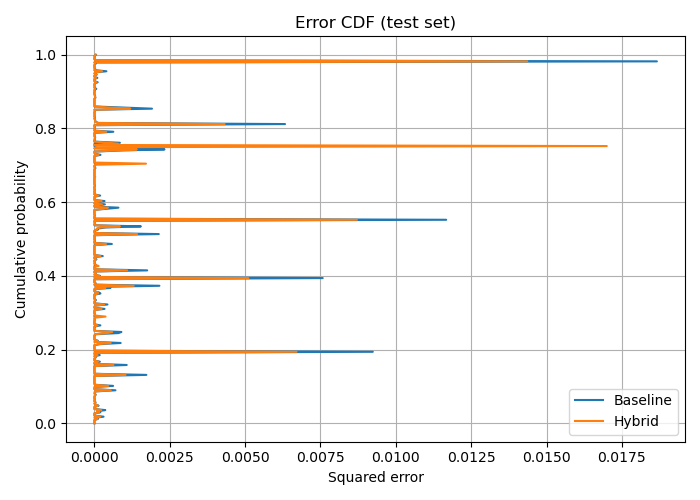
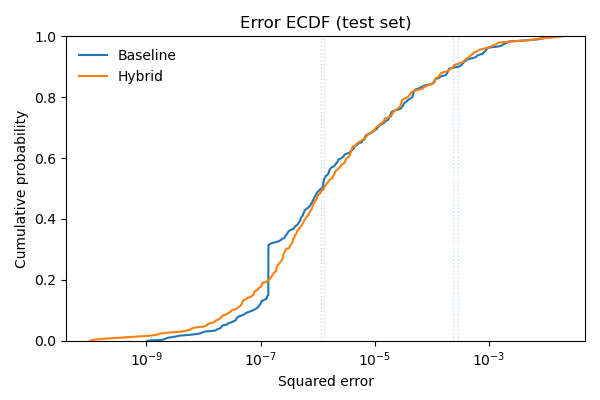
Improve milestone results figures

diff --git a/hybrid_ml_contact_dynamics/visualisation/freefall/freefall_plot.py b/hybrid_ml_contact_dynamics/visualisation/freefall/freefall_plot.py
@@ -5,10 +5,12 @@ import numpy as np
 from pathlib import Path
 from hybrid_ml_contact_dynamics.experiments.freefall.trajectory_buffer import Trajectory_Buffer
 
-def plot_cdf(x, label):
+def ecdf(x):
+    x = np.asarray(x)
     x = np.sort(x)
-    y = np.linspace(0, 1, len(x))
-    plt.plot(x, y, label=label)
+    n = x.size
+    y = np.arange(1, n + 1)  / n
+    return x, y
 
 plot_runs = False
 
@@ -76,10 +78,7 @@ class freefall_plot:
 
         lims = [ min(err_obs.min(), err_hybrid.min()), max(err_obs.max(), err_hybrid.max()) ]
 
-       # plt.text(0.05 * clip_max, 0.9 * clip_max, f"Improved samples: {improved_frac:.1%}")
         plt.plot([low, clip_max], [low, clip_max], linestyle="--", linewidth=1)
-      #  plt.xlim(lims)
-      #  plt.ylim(lims)
         plt.xscale('log')
         plt.yscale('log')
 
@@ -90,43 +89,71 @@ class freefall_plot:
         plt.xlabel('Baseline Squared Error')
         plt.ylabel('Hybrid Squared Error')
 
-        # plt.text(
-        #     0.02, 0.02, 
-        #     f"Improved samples: {improvement_rate:.1f}%", 
-        #     transform=plt.gca().transAxes,
-        #     va="bottom",
-        #     ha="right",
-        #     fontsize=9
-        #     )
-
         plt.tight_layout()
         plt.savefig("hybrid_ml_contact_dynamics/ml/training/freefall/03-01-2026,03:34:35/baselinevshybriderr")
         plt.close()
 
-
         delta = err_hybrid - err_obs
 
-        plt.figure(figsize=(8, 4))
-        plt.hist(delta, bins=50)
-        plt.axvline(0.0)
+        lo, hi = np.quantile(delta, [0.01, 0.99])
+        pad = 0.05 * (hi - lo)
+        lo -= pad
+        hi += pad
+
+        plt.figure(figsize=(7, 4))
+        neg = delta[delta < 0]
+        pos = delta[delta > 0]
+
+        plt.hist(neg, bins=50, alpha=0.8, label="Improved (Δ<0)")
+        plt.hist(pos, bins=50, alpha=0.6, label="Regressed (Δ>0)")
+        plt.legend(frameon=False)        
+        plt.axvline(0.0, linestyle="--", linewidth=1, alpha=0.8, label="No change")
+        plt.axvline(np.median(delta), linestyle=":", linewidth=1, alpha=0.8,
+            label=f"Median Δ = {np.median(delta):.2e}")
         plt.xlabel("Δ squared error (hybrid − baseline)")
         plt.ylabel("Count")
+
+        plt.xlim(lo, hi)
+        plt.xscale("symlog", linthresh=1e-6)
         plt.title("Per-sample error change")
         plt.tight_layout()
         plt.savefig("hybrid_ml_contact_dynamics/ml/training/freefall/03-01-2026,03:34:35/deltasquarederror")
         plt.close()
 
- 
+        plt.figure(figsize=(6, 4))
 
-        plt.figure(figsize=(7, 5))
-        plot_cdf(err_obs, "Baseline")
-        plot_cdf(err_hybrid, "Hybrid")
+        x_b, y_b = ecdf(err_obs)
+        x_h, y_h = ecdf(err_hybrid)
 
+        eps = 1e-12
+
+        ps = np.linspace(0.0, 1.0, 300)
+
+        qb = np.quantile(err_obs, ps)
+        qh = np.quantile(err_hybrid, ps)
+
+        qb = np.clip(qb, eps, None)
+        qh = np.clip(qh, eps, None)
+
+
+        x_b = np.clip(x_b, eps, None)
+        x_h = np.clip(x_h, eps, None)
+
+        plt.plot(qb, ps, label="Baseline", linewidth=1.5)
+        plt.plot(qh, ps, label="Hybrid", linewidth=1.5)
+
+        plt.xscale('log')
+        plt.ylim(0.0, 1.0)
         plt.xlabel("Squared error")
         plt.ylabel("Cumulative probability")
-        plt.title("Error CDF (test set)")
-        plt.legend()
-        plt.grid(True)
+        plt.title("Error ECDF (test set)")
+        plt.legend(frameon=False)
+        for p in [0.5, 0.9]:
+            vb = max(np.quantile(err_obs, p), eps)
+            vh = max(np.quantile(err_hybrid, p), eps)
+            plt.axvline(vb, linestyle=":", linewidth=1, alpha=0.25)
+            plt.axvline(vh, linestyle=":", linewidth=1, alpha=0.25)
+
         plt.tight_layout()
         plt.savefig("hybrid_ml_contact_dynamics/ml/training/freefall/03-01-2026,03:34:35/cdf")
         plt.close()
